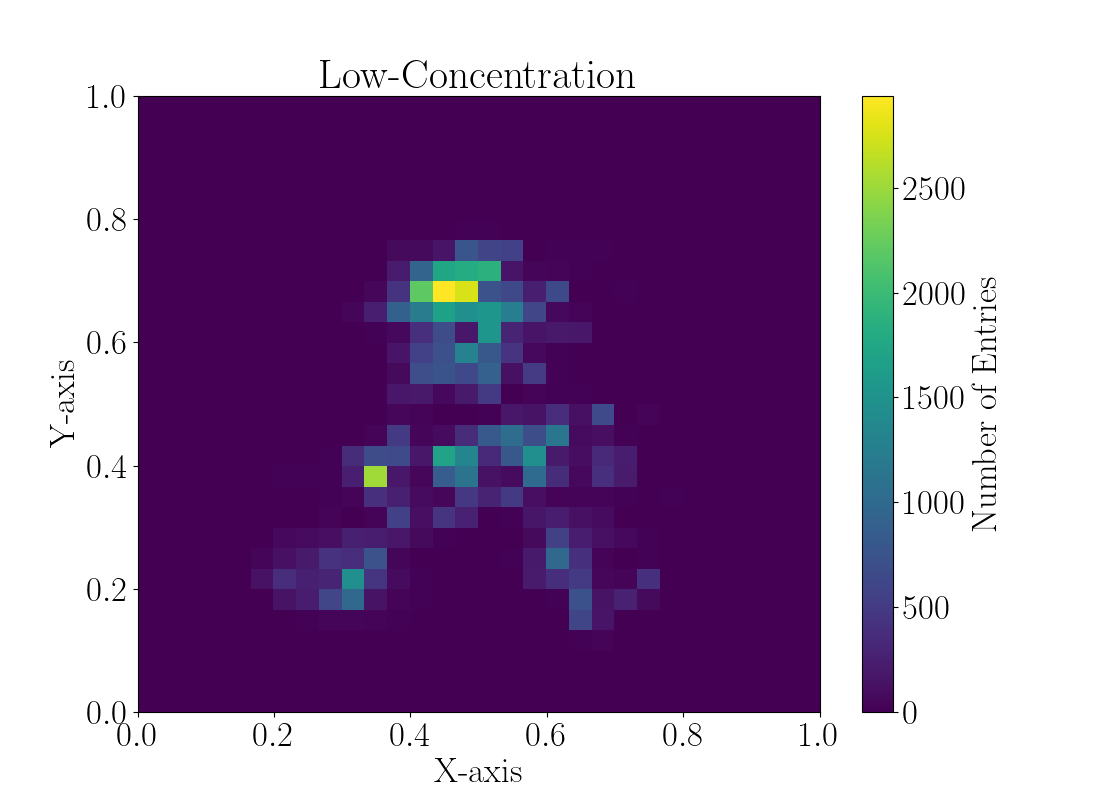
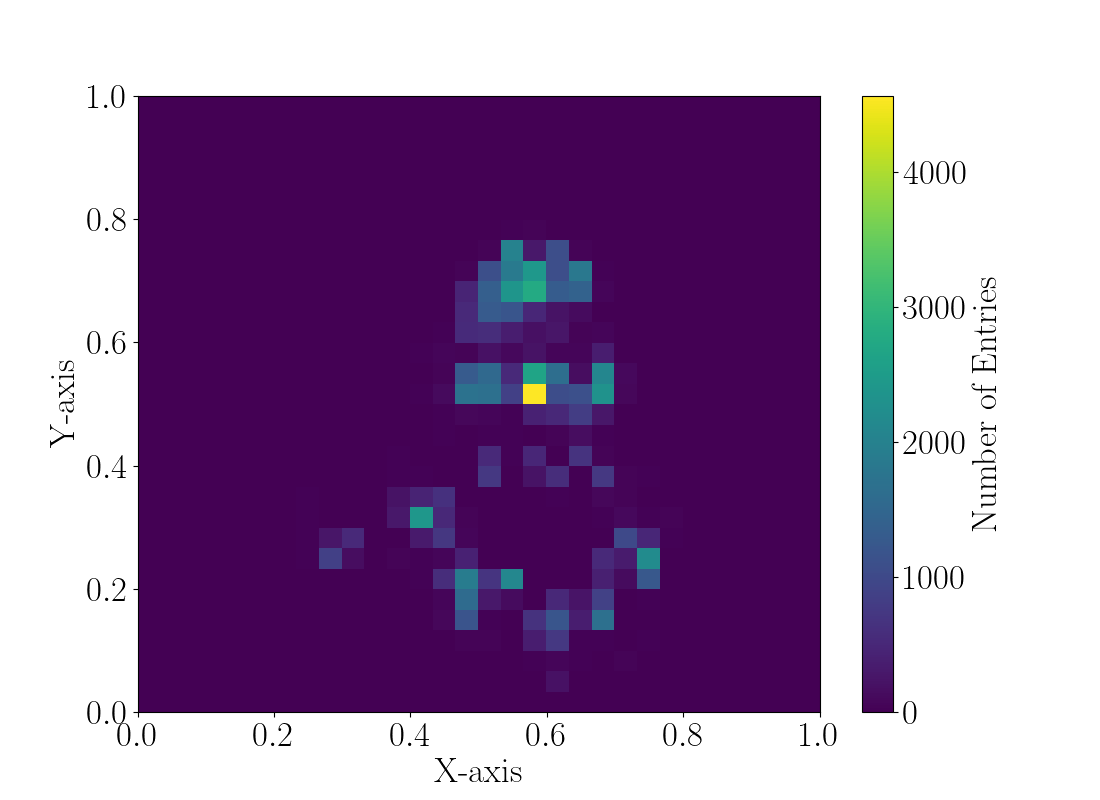
edit image

diff --git a/tfpose/1-processing/drawStd.py b/tfpose/1-processing/drawStd.py
@@ -1,0 +1,88 @@
+import argparse
+import matplotlib.pyplot as plt
+import numpy as np
+import pandas as pd
+from sklearn.preprocessing import StandardScaler
+
+# parser
+parser = argparse.ArgumentParser(description='for preprocessing tfpose data...')
+parser.add_argument('--c', type=str, help='prepared (pickle)data path and name with ".pkl"')
+parser.add_argument('--nc', type=str, help='prepared (pickle)data path and name with ".pkl"')
+parser.add_argument('--scaler', type=int, default=0, help='0-nonscaler 1-scaler')
+parser.add_argument('--file', type=str, help='merged data')
+args = parser.parse_args()
+
+# read pickle data
+if args.c and args.nc:
+    df_c = pd.read_pickle('../0-data/data_prepared/'+args.c)        # ( , 5)
+    df_nc = pd.read_pickle('../0-data/data_prepared/'+args.nc)      # ( , 5)
+if args.file:
+    df = pd.read_pickle('../0-data/data_prepared/merged/'+args.file)
+    df_c = df[df['label']==1]
+    df_nc = df[df['label']==0]
+
+plt.rcParams.update({'font.size': 30})      ###
+plt.rc('text', usetex=True)
+plt.rc('font', family='serif')
+
+# topX, topY, midX, midY
+nbin = 50
+la = ['$\sigma_{Top}^X$', '$\sigma_{Top}^Y$', '$\sigma_{Mid}^X$', '$\sigma_{Mid}^Y$']
+
+def concatData(data):
+    dataT = pd.concat([data.iloc[:, 0], data.iloc[:, 1]], ignore_index=True)
+    dataM = pd.concat([data.iloc[:, 2], data.iloc[:, 3]], ignore_index=True)
+    dataTotal = pd.concat([dataT, dataM])
+    
+    return dataT, dataM, dataTotal
+
+def drawStd(c, nc, rangemin, rangemax, xl):
+    plt.clf()
+    
+    plt.hist(c, range=(rangemin, rangemax), bins=nbin, color='red', alpha=0.5, label='High')
+    plt.hist(nc, range=(rangemin, rangemax), bins=nbin, color='blue', alpha=0.5, label='Low')
+
+    if xl < 2:
+        ticks = np.arange(0, 501, 250)
+    else:
+        ticks = np.arange(0, 751, 250)
+        
+    plt.legend()
+    plt.yticks(ticks)
+    plt.xlabel(la[xl])
+    plt.ylabel('Count')
+    plt.grid()
+
+    plt.show()
+
+
+
+
+
+# drop NaN
+df_c = df_c.dropna(axis=0)
+df_nc = df_nc.dropna(axis=0)
+
+#print(df_c.columns)
+#print(df_nc.columns)
+
+# draw
+drawStd(df_c['Top_X'], df_nc['Top_X'], -0.001, 0.025, 0)
+drawStd(df_c['Top_Y'], df_nc['Top_Y'], -0.001, 0.025, 1)
+drawStd(df_c['Mid_X'], df_nc['Mid_X'], -0.001, 0.025, 2)
+drawStd(df_c['Mid_Y'], df_nc['Mid_Y'], -0.001, 0.025, 3)
+
+# print
+df_cLen = []
+df_ncLen = []
+for i in df_c.columns[:-1]:
+    df_cLen.append( len(df_c[i][df_c[i] > 0.025]) / len(df_c[i]) )
+    df_ncLen.append( len(df_nc[i][df_nc[i] > 0.025]) / len(df_nc[i]) )
+    
+print('{0:0.3f}\t{1:0.3f}\t{2:0.3f}\t{3:0.3f}'.format(df_cLen[0], df_cLen[1], df_cLen[2], df_cLen[3]))
+print('{0:0.3f}\t{1:0.3f}\t{2:0.3f}\t{3:0.3f}'.format(df_ncLen[0], df_ncLen[1], df_ncLen[2], df_ncLen[3]))
+
+#print(df_c)
+#print(df_nc)
+print(df_c.describe())
+print(df_nc.describe())

diff --git a/tfpose/1-processing/drawPart.py b/tfpose/1-processing/drawPart.py
@@ -1,0 +1,91 @@
+import argparse
+import matplotlib.pyplot as plt
+import numpy as np
+import pandas as pd
+from sklearn.preprocessing import StandardScaler
+
+# parser
+parser = argparse.ArgumentParser(description='for preprocessing tfpose data...')
+parser.add_argument('--c', type=str, default='', help='raw (pickle)data path and name with ".pkl"')
+parser.add_argument('--nc', type=str, default='', help='raw (pickle)data path and name with ".pkl"')
+parser.add_argument('--num', type=int, default=50, help='per N frames')
+args = parser.parse_args()
+
+# read pickle data
+df_c = pd.read_pickle('../0-data/data_pickle/'+args.c)       
+df_nc = pd.read_pickle('../0-data/data_pickle/'+args.nc)      
+
+plt.rcParams.update({'font.size': 25})
+plt.rc('text', usetex=True)
+plt.rc('font', family='serif')
+
+#fig, axes = plt.subplots(nrows=1, ncols=1, dpi=300) 
+
+# fig.tight_layout(pad=2)
+# fig.suptitle('Distribution of $\sigma_{Neck}$', y=0.95)
+nbin = 50
+
+part = 'Nec'
+
+df_c = df_c[[part + '_X', part + '_Y']]
+df_nc = df_nc[[part + '_X', part + '_Y']]
+
+
+
+def getStd(data, num):
+    stdX = np.array([])
+    stdY = np.array([])
+    lend = len(data)
+    idx = 0
+    while (idx < lend):
+        tmp = data[idx:idx+num]
+        lent = len(tmp)
+        if (lent > 1):
+            stdX = np.append(stdX, (np.std(tmp[part + '_X'])))
+            stdY = np.append(stdY, (np.std(tmp[part + '_Y'])))
+            idx += num
+        else:
+            break
+
+    return pd.DataFrame(stdX, columns=['stdX']), pd.DataFrame(stdY, columns=['stdY'])
+
+def drawStdHistX(datac, datanc, rangemin, rangemax):
+    plt.hist(datac, range=(rangemin, rangemax), bins=nbin, color='red', alpha=0.5, label='High')
+    plt.hist(datanc, range=(rangemin, rangemax), bins=nbin, color='blue', alpha=0.5, label='Low')
+
+    plt.legend()
+    plt.xlabel('$\sigma_{Neck}^X$')
+    plt.ylabel('Count')
+    plt.grid()
+
+def drawStdHistY(datac, datanc, rangemin, rangemax):
+    plt.hist(datac, range=(rangemin, rangemax), bins=nbin, color='red', alpha=0.5, label='High')
+    plt.hist(datanc, range=(rangemin, rangemax), bins=nbin, color='blue', alpha=0.5, label='Low')
+
+    plt.legend()
+    plt.xlabel('$\sigma_{Neck}^Y$')
+    plt.ylabel('Count')
+    plt.grid()
+
+c_stdX, c_stdY = getStd(df_c, args.num)
+nc_stdX, nc_stdY = getStd(df_nc, args.num)
+
+df_c = pd.concat([c_stdX, c_stdY], axis=1)
+df_c['label'] = 1
+df_nc = pd.concat([nc_stdX, nc_stdY], axis=1)
+df_nc['label'] = 0
+
+print(df_c)
+print(df_nc)
+
+print(df_c.describe())
+print(df_nc.describe())
+
+drawStdHistX(df_c['stdX'], df_nc['stdX'], -0.001, 0.01)
+plt.show()
+#plt.savefig('kjk_neck50_X.png', dpi=300)
+
+plt.clf()
+drawStdHistY(df_c['stdY'], df_nc['stdY'], -0.001, 0.01)
+plt.show()
+#plt.savefig('kjk_neck50_Y.png', dpi=300)

diff --git a/tfpose/1-processing/2dhistogram.py b/tfpose/1-processing/2dhistogram.py
@@ -22,8 +22,8 @@ df = pd.read_pickle('../0-data/data_pickle/' + args.file)      # x, y, score
 body = ["Nos", "Nec", "Rsh", "Rel", "Rwr", "Lsh", "Lel", "Lwr", "Rey", "Ley", "Rea", "Lea"]
 
 for i in body:
-    XY = pd.concat([df[i + '_X'][100:150], df[i + '_Y'][100:150], df[i + '_Score'][100:150]], axis=1)
-    # XY = pd.concat([df[i + '_X'][500:8500], df[i + '_Y'][500:8500], df[i + '_Score'][500:8500]], axis=1)
+    #XY = pd.concat([df[i + '_X'][100:150], df[i + '_Y'][100:150], df[i + '_Score'][100:150]], axis=1)
+    XY = pd.concat([df[i + '_X'][500:8500], df[i + '_Y'][500:8500], df[i + '_Score'][500:8500]], axis=1)
     XY.columns = ['X', 'Y', 'Score']
     histo = histo.append(XY)
 
@@ -49,16 +49,16 @@ ax = plt.gca()
 
 plt.xlabel('X-axis')
 plt.ylabel('Y-axis')
-#plt.show()
+plt.show()
 
-if args.label:
+'''if args.label:
     plt.title("High-Concentration")
     # plt.savefig("kpg_1_50")
     # plt.show()
 else:
     plt.title("Low-Concentration")
     # plt.savefig("kpg_0_50")
-    # plt.show()
+    # plt.show()'''
 
 
 

diff --git a/tfpose/1-processing/hist_part.py b/tfpose/1-processing/hist_part.py
@@ -22,7 +22,7 @@ df_nc = pd.read_pickle('../0-data/data_pickle/'+args.nc)
 plt.rcPagraphrams['font.family'] = 'Times New Roman'
 plt.rcParams.update({'font.size': 60})
 '''
-plt.rcParams.update({'font.size': 15})
+plt.rcParams.update({'font.size': 25})
 plt.rc('text', usetex=True)
 plt.rc('font', family='serif')
 
